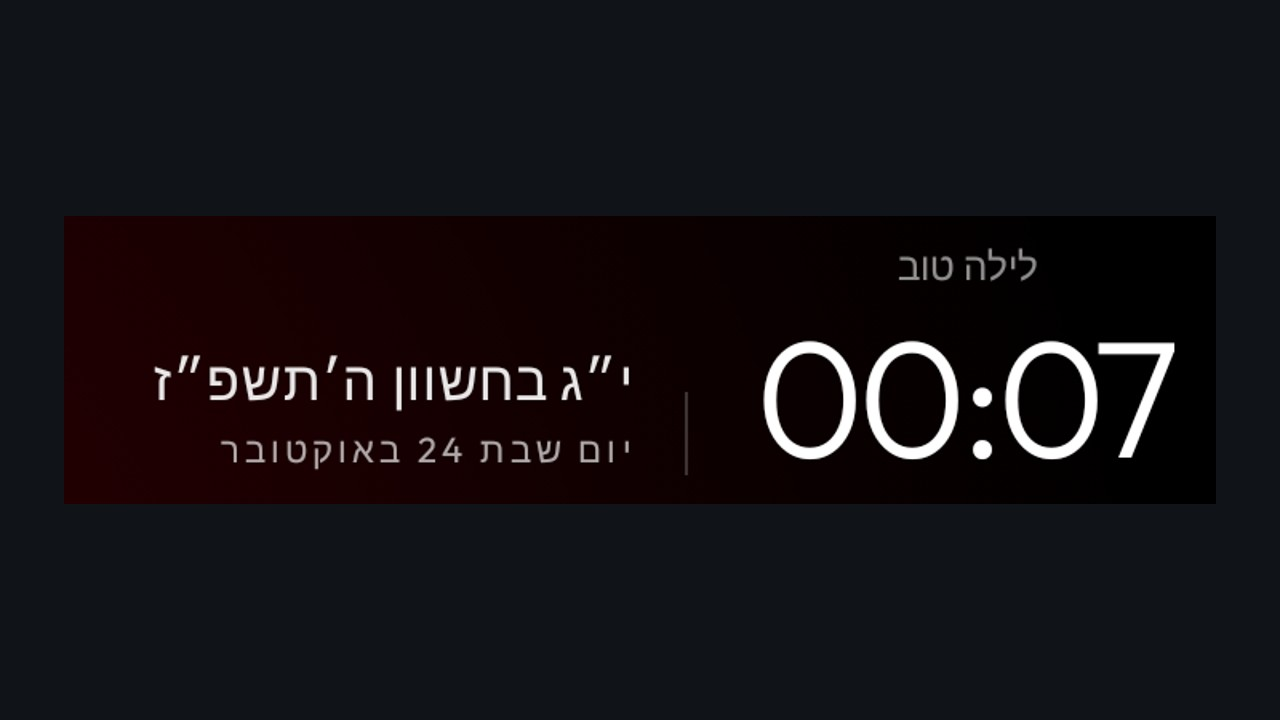
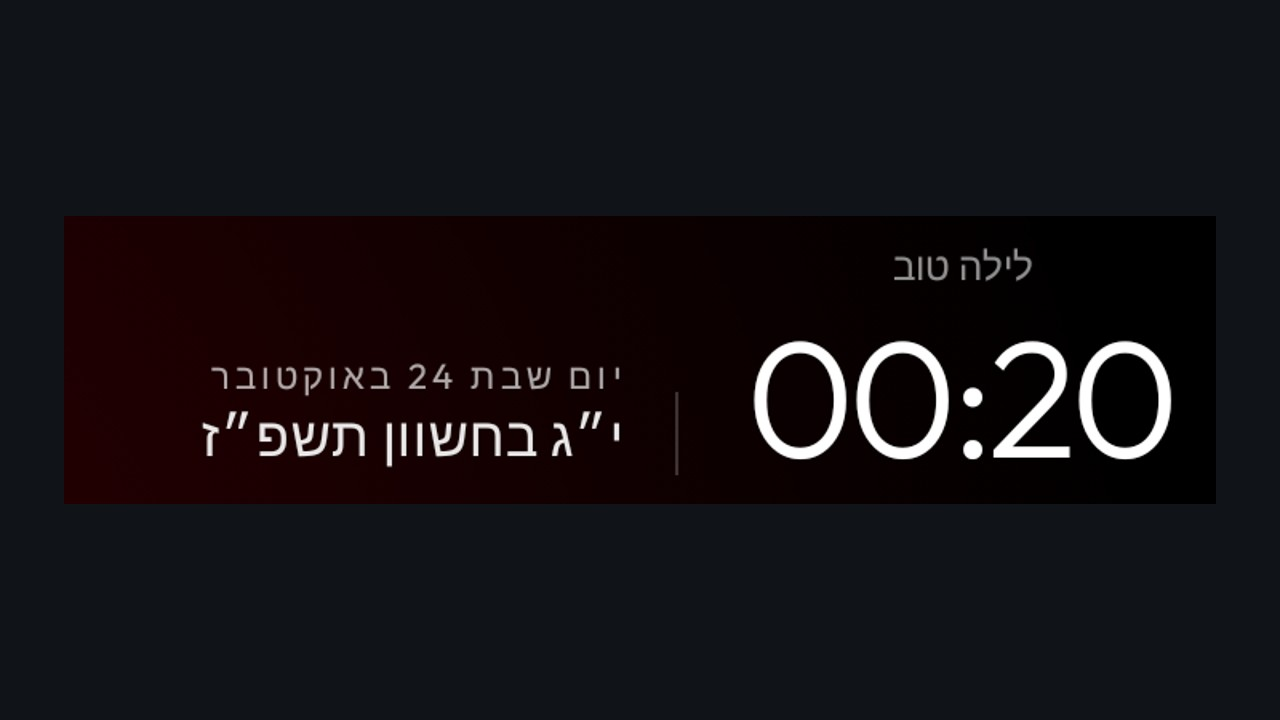
Launcher: refine Hebrew date order, year and holiday wording

Changed region(s): [[0.5625, 0.4583, 0.9375, 0.6417], [0.125, 0.4889, 0.5, 0.6417], [0.6875, 0.3361, 0.8125, 0.3972]]

diff --git a/launcher/app/src/test/java/com/gathin/tvhome/JewishDateTest.java b/launcher/app/src/test/java/com/gathin/tvhome/JewishDateTest.java
@@ -38,9 +38,9 @@ public class JewishDateTest {
         assertEquals(0, JewishDate.holiday(0, 3, 30, true));
         assertEquals(R.string.jewish_yom_kippur, JewishDate.holiday(0, 10, 30, true));
         assertEquals(R.string.jewish_happy_holiday, JewishDate.holiday(0, 21, 30, true));
-        assertEquals(R.string.jewish_simchat_torah, JewishDate.holiday(0, 22, 30, true));
+        assertEquals(R.string.jewish_happy_holiday, JewishDate.holiday(0, 22, 30, true));
         assertEquals(R.string.jewish_happy_holiday, JewishDate.holiday(0, 22, 30, false));
-        assertEquals(R.string.jewish_simchat_torah, JewishDate.holiday(0, 23, 30, false));
+        assertEquals(R.string.jewish_happy_holiday, JewishDate.holiday(0, 23, 30, false));
         assertEquals(0, JewishDate.holiday(0, 23, 30, true));
         assertEquals(R.string.jewish_happy_holiday, JewishDate.holiday(7, 22, 30, false));
         assertEquals(0, JewishDate.holiday(7, 22, 30, true));
@@ -50,6 +50,15 @@ public class JewishDateTest {
         assertEquals(R.string.jewish_purim, JewishDate.holiday(6, 14, 30, true));
         assertEquals(R.string.jewish_purim, JewishDate.holiday(6, 15, 30, true));
     }
+    @Test public void omitYearThousandsWithoutChangingDaysOrLeapMonths() {
+        assertEquals("ה׳ בחשוון תשפ״ז", JewishDate.withoutMillennium("ה׳ בחשוון ה׳תשפ״ז"));
+        assertEquals("ט״ו באדר א׳ תשפ״ד", JewishDate.withoutMillennium("ט״ו באדר א׳ ה׳תשפ״ד"));
+        assertEquals("ט״ז באדר ב׳ תשפ״ד", JewishDate.withoutMillennium("ט״ז באדר ב׳ ה׳תשפ״ד"));
+        assertEquals("י״ג בחשוון תשפ״ז", JewishDate.withoutMillennium("י״ג בחשוון ה׳תשפ״ז"));
+        assertEquals("א׳ בתשרי ה׳", JewishDate.withoutMillennium("א׳ בתשרי ה׳"));
+        assertEquals("13 Heshvan 5787", JewishDate.withoutMillennium("13 Heshvan 5787"));
+    }
+
     @Test public void hanukkahHasEightDaysWithShortOrLongKislev() {
         for (int length : new int[]{29, 30}) {
             int count = 0;

diff --git a/launcher/app/src/main/java/com/gathin/tvhome/JewishDate.java b/launcher/app/src/main/java/com/gathin/tvhome/JewishDate.java
@@ -84,7 +84,13 @@ final class JewishDate {
                         : new ULocale(locale.toString() + "@calendar=hebrew"));
         HebrewCalendar calendar = calendar(day);
         format.setCalendar(calendar);
-        return format.format(calendar.getTime());
+        String text = format.format(calendar.getTime());
+        return he ? withoutMillennium(text) : text;
+    }
+
+    /** Omit only a year's thousands prefix; preserve day 5 and Adar I/II markers. */
+    static String withoutMillennium(String text) {
+        return text.replaceFirst(" [א-ט]׳(?=[א-ת׳״]+$)", " ");
     }
 
     int greeting(LocalDate day, Locale locale) {
@@ -102,8 +108,8 @@ final class JewishDate {
             if (day == 1 || day == 2) return R.string.jewish_rosh_hashanah;
             if (day == 10) return R.string.jewish_yom_kippur;
             if (day >= 15 && day <= 21) return R.string.jewish_happy_holiday;
-            if (day == 22) return israel ? R.string.jewish_simchat_torah : R.string.jewish_happy_holiday;
-            if (day == 23 && !israel) return R.string.jewish_simchat_torah;
+            if (day == 22) return R.string.jewish_happy_holiday;
+            if (day == 23 && !israel) return R.string.jewish_happy_holiday;
         }
         if ((month == 2 && day >= 25 && day <= kislevDays)
                 || (month == 3 && day >= 1 && day <= 32 - kislevDays)) return R.string.jewish_hanukkah;

diff --git a/launcher/app/src/main/java/com/gathin/tvhome/MainActivity.java b/launcher/app/src/main/java/com/gathin/tvhome/MainActivity.java
@@ -454,6 +454,9 @@ public class MainActivity extends Activity implements AppAdapter.TileListener {
             }
             if (jewishDate != null && jewishDate.showDate) {
                 shamsiDate.getLayoutParams().width = ViewGroup.LayoutParams.WRAP_CONTENT;
+                ViewGroup dates = (ViewGroup) shamsiDate.getParent();
+                dates.removeView(shamsiDate);
+                dates.addView(shamsiDate);
             }
             shamsiDate.setVisibility(View.VISIBLE);
             TextView date = findViewById(R.id.date);

diff --git a/themes/README.md b/themes/README.md
@@ -70,7 +70,7 @@ A new key needs one there in the same pull request.
 | `app_library_selection` | bool | OK toggles Home checkmarks in the library; checked apps first, both groups alphabetized. Hiding keeps focus on the adjacent next app (previous at the end). Requires `app_library`; `false` preserves the standard open/long-press behavior |
 | `library_apps` | list of package names | Packages pre-seeded into the App library's "added" set at startup (config.xml `library_apps`, or a theme's `config.json`). They show on Home as if the owner had added them in the App library UI, and stay removable there (a removed one stays hidden); empty (off) by default |
 | `shamsi_date` | bool | Show the Solar Hijri date above the Gregorian one |
-| `hebrew_date` | bool | Off by default; show the Hebrew calendar date above the Gregorian one. Requires the manual location described below for offline sunset rollover |
+| `hebrew_date` | bool | Off by default; show the Hebrew calendar date below the Gregorian one. Requires the manual location described below for offline sunset rollover |
 | `jewish_holiday_greetings` | bool | Off by default; replace the normal greeting during major Jewish holidays, Hanukkah and Purim (including Shushan Purim). An explicit festival-theme greeting has priority |
 | `jewish_holiday_region` | string | `auto` (default): country `IL` uses Israel, other countries use Diaspora; Hebrew without a country uses Israel. Override with `israel` or `diaspora` |
 | `greeting_name` | string | A name after the greeting, e.g. `"Mr. Trịnh"` for GOOD MORNING, MR. TRỊNH; empty for the greeting alone |
@@ -222,3 +222,7 @@ other languages use ICU's localized Hebrew-calendar month names. Existing explic
 
 Calendar validation uses [Hebcal's converter and holiday API](https://www.hebcal.com/home/developer-apis)
 on the development computer only; the launcher never calls them.
+
+The Gregorian date stays on top of the optional Hebrew date. Hebrew years omit the thousands prefix
+(for example תשפ״ז); day-number and Adar I/II marks remain intact. Shemini Atzeret and Simchat Torah use
+the same general holiday greeting in Israel and the Diaspora, while their observed dates still differ.
